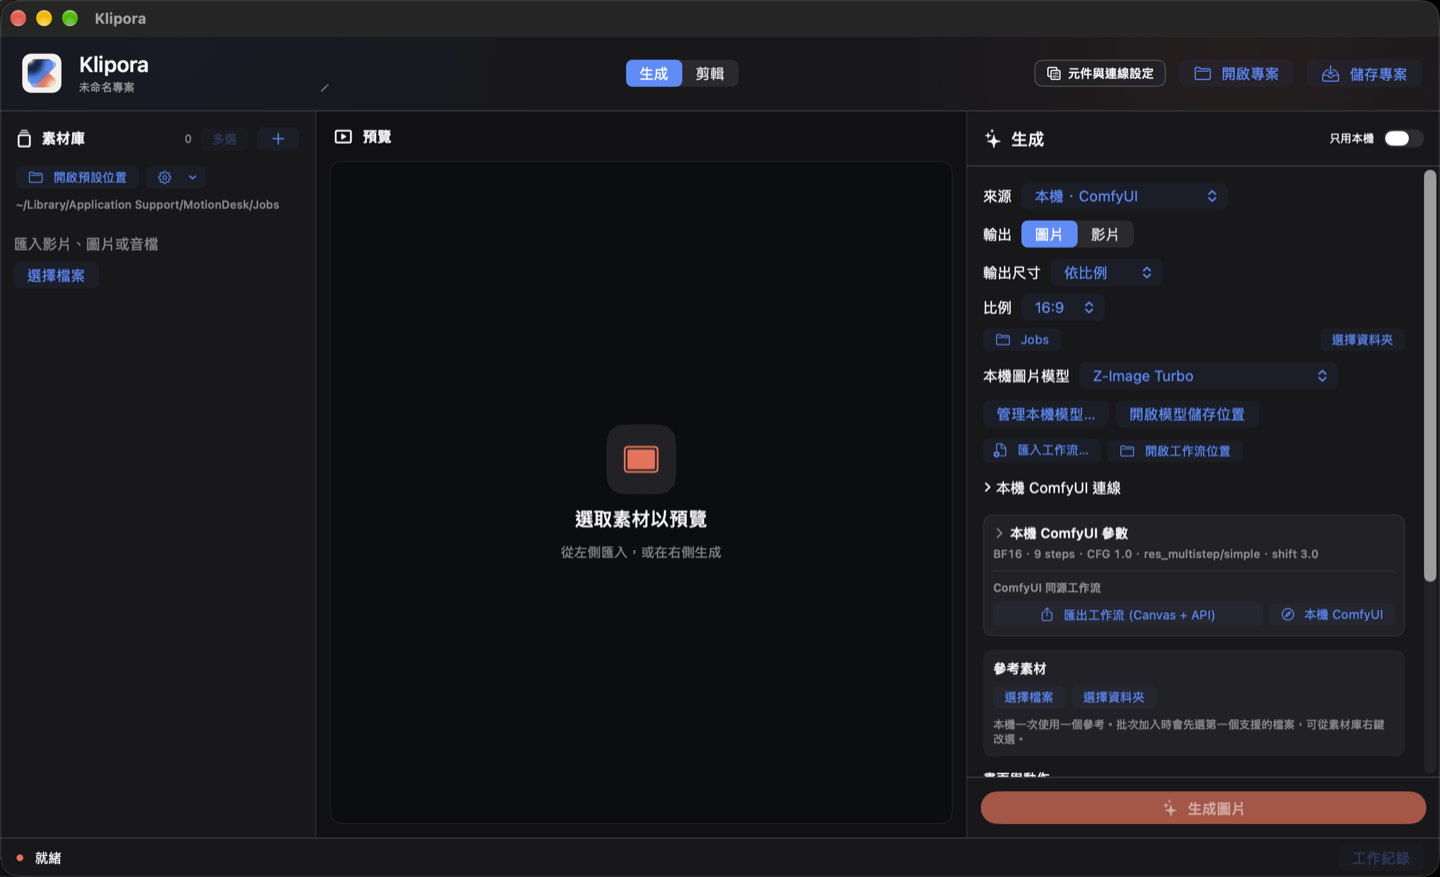
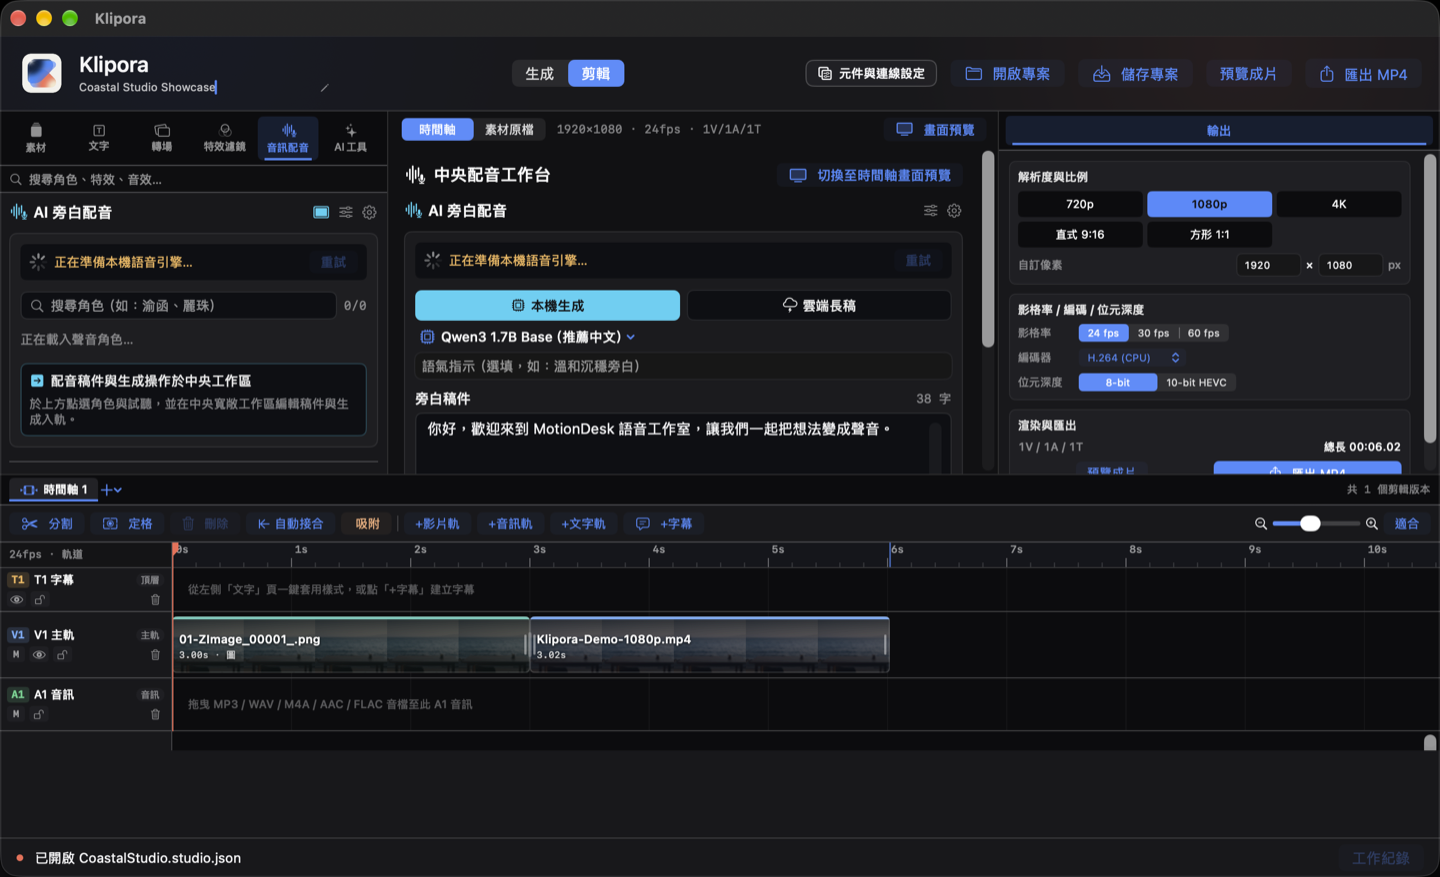
Update showcase screenshots with real Klipora 1.0 image, video edit, voice studio & settings captures

diff --git a/docs/README.ja.md b/docs/README.ja.md
@@ -20,9 +20,9 @@
 
 ## インターフェース紹介
 
-| 起動時セルフチェック | AI 画像生成ワークスペース |
+| ローカル音声・ボイススタジオ | AI 画像生成ワークスペース |
 | :---: | :---: |
-| ![起動時セルフチェック](screenshots/01-startup-selfcheck.png) | ![画像生成ワークスペース](screenshots/02-generate-workspace.png) |
+| ![ローカル音声・ボイススタジオ](screenshots/01-startup-selfcheck.png) | ![画像生成ワークスペース](screenshots/02-generate-workspace.png) |
 
 | マルチトラック動画編集 | 環境・多言語・接続設定 |
 | :---: | :---: |

diff --git a/docs/README.ko.md b/docs/README.ko.md
@@ -20,9 +20,9 @@
 
 ## 인터페이스 미리보기
 
-| 시작 자체 점검 | AI 이미지 생성 작업 공간 |
+| 로컬 보이스·오디오 스튜디오 | AI 이미지 생성 작업 공간 |
 | :---: | :---: |
-| ![시작 자체 점검](screenshots/01-startup-selfcheck.png) | ![이미지 생성 작업 공간](screenshots/02-generate-workspace.png) |
+| ![로컬 보이스·오디오 스튜디오](screenshots/01-startup-selfcheck.png) | ![이미지 생성 작업 공간](screenshots/02-generate-workspace.png) |
 
 | 멀티트랙 영상 편집기 | 구성요소·다국어·연결 설정 |
 | :---: | :---: |

diff --git a/README.md b/README.md
@@ -20,9 +20,9 @@
 
 ## Interface Showcase
 
-| Startup Self-Check | AI Image Generation Workspace |
+| Local Neural Voice Studio | AI Image Generation Workspace |
 | :---: | :---: |
-| ![Startup Self-Check](docs/screenshots/01-startup-selfcheck.png) | ![Generate Workspace](docs/screenshots/02-generate-workspace.png) |
+| ![Local Neural Voice Studio](docs/screenshots/01-startup-selfcheck.png) | ![Generate Workspace](docs/screenshots/02-generate-workspace.png) |
 
 | Multitrack Video Editor | Setup, Languages & Connections |
 | :---: | :---: |

diff --git a/docs/README.zh-Hans.md b/docs/README.zh-Hans.md
@@ -20,9 +20,9 @@
 
 ## 界面展示
 
-| 启动自检画面 | AI 图像生成工作区 |
+| 本地语音配音工作室 | AI 图像生成工作区 |
 | :---: | :---: |
-| ![启动自检画面](screenshots/01-startup-selfcheck.png) | ![生成工作区](screenshots/02-generate-workspace.png) |
+| ![本地语音配音工作室](screenshots/01-startup-selfcheck.png) | ![生成工作区](screenshots/02-generate-workspace.png) |
 
 | 多轨专业剪辑工作区 | 组件设置、多国语言与连接 |
 | :---: | :---: |

diff --git a/docs/README.zh-Hant.md b/docs/README.zh-Hant.md
@@ -20,9 +20,9 @@
 
 ## 介面展示
 
-| 啟動自檢畫面 | AI 影像生成工作區 |
+| 本機語音配音工作室 | AI 影像生成工作區 |
 | :---: | :---: |
-| ![啟動自檢畫面](screenshots/01-startup-selfcheck.png) | ![生成工作區](screenshots/02-generate-workspace.png) |
+| ![本機語音配音工作室](screenshots/01-startup-selfcheck.png) | ![生成工作區](screenshots/02-generate-workspace.png) |
 
 | 多軌專業剪輯工作區 | 元件設定、多國語言與連線 |
 | :---: | :---: |
